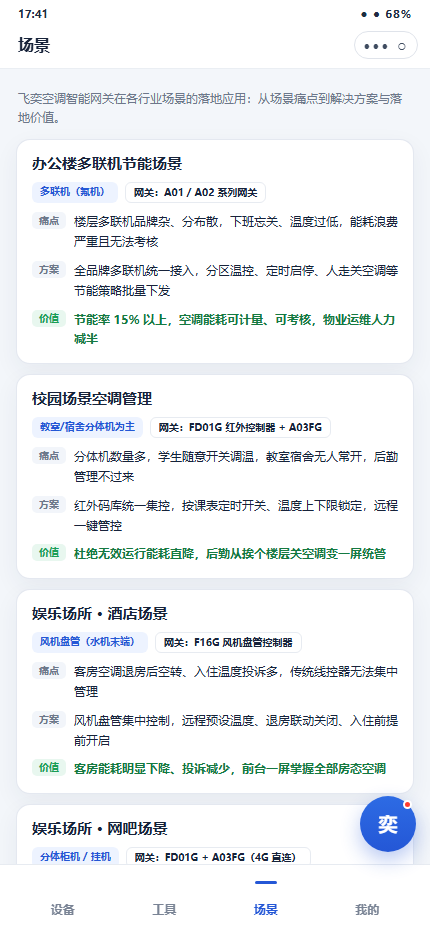
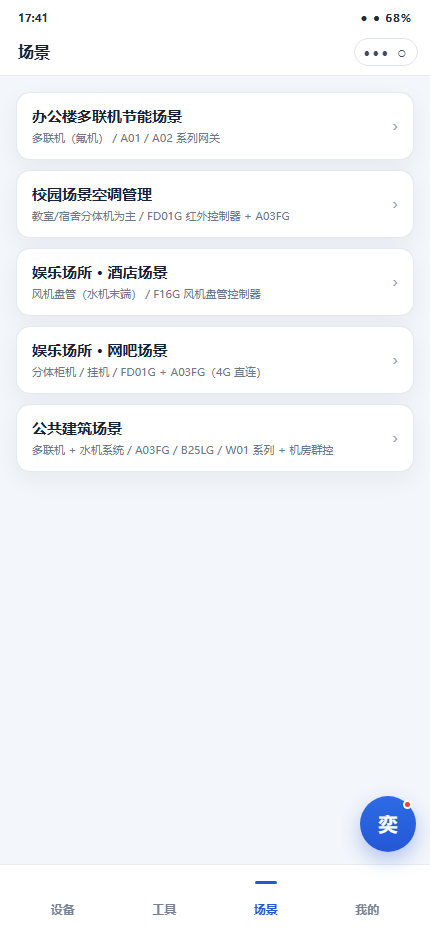
场景列表卡补充描述行：场景名下方加「空调类别 / 飞奕产品」一行灰色小字（如 多联机（氟机）/ A01 / A02 系列网关）

diff --git a/pages/tab-scene.html b/pages/tab-scene.html
@@ -2,9 +2,11 @@
 <html lang="zh-CN">
 <head><meta charset="utf-8"><meta name="viewport" content="width=device-width,initial-scale=1,viewport-fit=cover"><title>场景</title><link rel="stylesheet" href="../assets/app/app.css">
 <style>
-  .scene-card { display: flex; align-items: center; justify-content: space-between; gap: 10px; padding: 15px; }
-  .scene-card > strong { font-size: 15px; }
-  .scene-arrow { color: var(--faint); font-size: 16px; }
+  .scene-card { display: flex; align-items: center; gap: 10px; padding: 14px 15px; }
+  .scene-card-main { flex: 1; min-width: 0; display: grid; gap: 5px; }
+  .scene-card-main > strong { font-size: 15px; }
+  .scene-card-main > small { color: var(--muted); font-size: 11px; }
+  .scene-arrow { flex: 0 0 auto; color: var(--faint); font-size: 16px; }
 </style>
 </head>
 <body>
@@ -24,7 +26,9 @@
   <script src="../assets/app/product-data.js"></script>
   <script>
     document.getElementById('scene-list').innerHTML = GWDBG_DATA.scenes.map(function (s, index) {
-      return '<a class="card scene-card" href="scene-detail.html?scene=' + index + '"><strong>' + s.title + '</strong><span class="scene-arrow">›</span></a>';
+      return '<a class="card scene-card" href="scene-detail.html?scene=' + index + '">' +
+        '<span class="scene-card-main"><strong>' + s.title + '</strong><small>' + s.ac + ' / ' + s.products + '</small></span>' +
+        '<span class="scene-arrow">›</span></a>';
     }).join('');
   </script>
   <script src="../assets/app/ai-assistant.js"></script>
